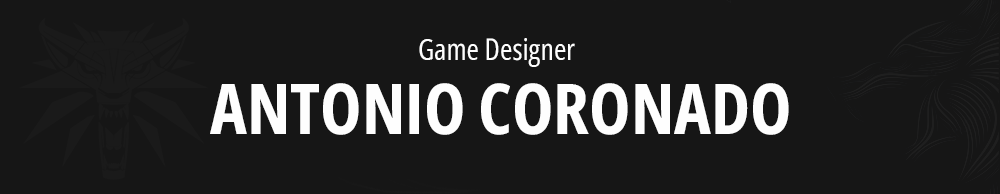
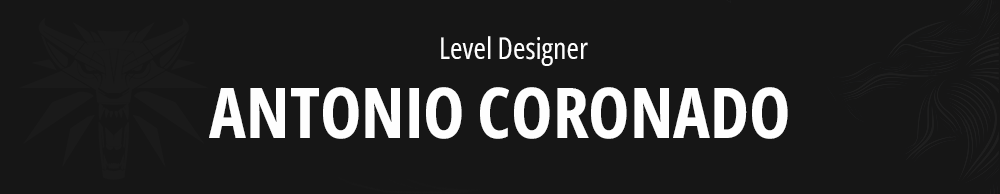
Changes

Changed region(s): [[0.186, 0.433, 0.806, 0.7113], [0.403, 0.1856, 0.589, 0.3402]]

diff --git a/PZ.html b/PZ.html
@@ -1,0 +1,130 @@
+<html>
+	<head>
+		<title>Antonio Coronado | Level Designer</title>
+		<link href='http://fonts.googleapis.com/css?family=Open+Sans' rel='stylesheet' type='text/css'>
+		<link href='style.css' rel='stylesheet' type='text/css'>
+		<link rel='shortcut icon' href='ico.ico' type='image/x-icon' />
+	</head>
+	
+	<body>
+
+		<div class="content">
+			<center>
+				
+				<img src="main/Game Designer.png" alt="Antonio Coronado - Game Developer" id="header">
+
+				
+								
+				<br>
+				<!-- the links -->
+				<div class="main_links">
+					
+					<a href="index.html"><img src="3d_on.png" id="linkimage0"></a> 
+				
+					<a href="2d.html"><img src="2d.png" id="linkimage1"></a> 
+					
+					<a href="cv.html"><img src="resume.png" id="linkimage2"></a> 
+					
+					<a href="contact.html"><img src="contact1.png" id="linkimage3"></a> 
+				</div>
+
+				<!-- Snowboard -->
+				<div id="page_title"> Project Z <br></div>
+            </center>
+				<div class="bread_text">
+					
+					<p class="test">
+          
+		  <br> Project Z is a Sci-fi dungeon crawler game. My role here is technical game designer in a team of 15 people but led the level design side. <br>
+   <br>   &bull; Collaborated closely with the concept artist to design a 10-room dungeon that included puzzles, traps, and enemy encounters.
+   <br>   &bull; Utilized Unreal Engine to block out 9 rooms and refined them through multiple gameplay iterations.
+   <br>   &bull; Generated one-page documents for each room to share with the team, streamlining the production process.
+   <br>   &bull; Developed AI spawners to test the flow and difficulty of each room, ensuring optimal gameplay experience.
+   <br>   &bull; Programmed a Diablo-style camera feature that dynamically hid objects in the level, resulting in improved gameplay for the game.
+   
+			
+   <br><br><br>
+
+   					Tools & resources used:
+					<br>&bull; Unreal Engine 5
+                    <br>&bull; Photoshop
+					<br>&bull; Google Documents
+					<br><br>
+					
+					<center>
+					<br>
+					<br>
+					<img  src="main/PZ/DungeonLayout.png" class="wide">
+					<div class="description"> Worked with the concept artist to create a layout of the dungeon with 9 rooms  </div>
+					<br>
+					<img  src="main/PZ/Room 1 Layout.png" class="wide">
+					<div class="description"> Room 1 layout - The room 1 starts with some easy enemies like turrets and minions  </div>
+					<br>
+					<img  src="main/PZ/Room 2 Layout.png" class="wide">
+					<div class="description"> Room 2 layout - has a puzzle with energy platforms that players need to interact with to be able to move to the next room  </div>
+					<br>
+					<img  src="main/PZ/Room 4 Layout.png" class="wide">
+					<div class="description"> Room 4 layout - Players must work together to find the right pattern, with every mistake more enemies are spawned  </div>
+					<br>
+					<img  src="main/PZ/Room 4 Mechanic.png" class="wide">
+					<div class="description"> Room 4 mechanic - Explaining the pressure pads mechanic  </div>
+					<br>
+					<img  src="main/PZ/Room 5 Layout.png" class="wide">
+					<div class="description"> Room 5 layout - The purpose of this is to separate players in 2 groups and fight the mininboss doing different actions ine ach group.  </div>
+					<br>
+					<img  src="main/PZ/Room 6 Layout (UNDER REVIEW).png" class="wide">
+					<div class="description"> Room 6 layout - Miniboss arena </div>
+					<br>
+					<img  src="main/PZ/Room 8 Layout.png" class="wide">
+					<div class="description"> Room 8 layout - Players must work together to bring energy to the door and open it  </div>
+					<br>
+					<img  src="main/PZ/Room 8 Mechanic.png" class="wide">
+					<div class="description"> Room 8 Mechanic layout - This room was intended to force players to coordinate and bring the little robots to the specified location   </div>
+					<br>
+					<img  src="main/PZ/Room 9 Layout.png" class="wide">
+					<div class="description"> Room 9 layout - Players need to find the correct pattern to teleport and continue their mission  </div>
+					<br>
+					<img  src="main/PZ/Boss Room.png" class="wide">
+					<div class="description"> Boss Room rought concept  </div>
+					<br>
+					<br>
+					<iframe width="1000" height="500" src="https://www.youtube.com/embed/q0iIHNHgSEk" frameborder="0" allow="accelerometer; autoplay; encrypted-media; gyroscope; picture-in-picture" allowfullscreen  class="wide"></iframe>
+            		<div class="description">  First blockouts with one of the characters </div>
+            		<br>
+					<br>
+					<iframe width="1000" height="500" src="https://www.youtube.com/embed/0LSt7SIoqik" frameborder="0" allow="accelerometer; autoplay; encrypted-media; gyroscope; picture-in-picture" allowfullscreen  class="wide"></iframe>
+            		<div class="description">  Walkthrough of all the rooms in unreal engine with the diablo style camera. </div>
+            		<br>
+					<br>
+					
+					
+
+
+					
+					<br>
+					<br>
+					 
+					
+
+				</div>
+
+
+				
+				
+
+				<br>
+
+				
+
+				
+
+				<br>
+
+				<br>
+
+
+				
+			</div>
+		</center>
+	</body>
+</html>

diff --git a/CGMA.html b/CGMA.html
@@ -1,0 +1,86 @@
+<html>
+	<head>
+		<title>Antonio Coronado | Level Designer</title>
+		<link href='http://fonts.googleapis.com/css?family=Open+Sans' rel='stylesheet' type='text/css'>
+		<link href='style.css' rel='stylesheet' type='text/css'>
+		<link rel='shortcut icon' href='ico.ico' type='image/x-icon' />
+	</head>
+	
+	<body>
+
+		<div class="content">
+			<center>
+				
+				<img src="Header.png" alt="Antonio Coronado - Level Designer" id="header">
+
+				
+								
+				<br>
+				<!-- the links -->
+				<div class="main_links">
+					
+					<a href="index.html"><img src="3d_on.png" id="linkimage0"></a> 
+				
+					<a href="2d.html"><img src="2d.png" id="linkimage1"></a> 
+					
+					<a href="cv.html"><img src="resume.png" id="linkimage2"></a> 
+					
+					<a href="contact.html"><img src="contact1.png" id="linkimage3"></a> 
+				</div>
+
+				<!-- Snowboard -->
+				<div id="page_title"> Personal Project <br></div>
+            </center>
+				<div class="bread_text">
+					
+					<p class="test">
+          This is a level I submitted in my CGMA level design course.
+   <br>
+   <br>   &bull; Built a blockout level for a single player experience
+   <br>   &bull; Created a color scheme to have consistensy with the objects that are interactable and for cover
+   <br>   &bull; Scripted a dialogues system and game events manager to handle different situations during gameplay.
+   <br>   &bull; Improved enemies AI to have movement patterns and keep the flow of the level.
+					
+					<br><br>
+					Tools & resources used:
+					<br>&bull; Unreal Engine 5
+					<br>&bull; Maya
+                    <br>&bull; IWALS player controller by Jakob W
+					
+					
+					<center>
+					
+					
+					<h1 style="font-weight: 10;">Walkthrough</h1>
+					<iframe width="1000" height="500" src="https://www.youtube.com/embed/umqDdpDM5B0" frameborder="0" allow="accelerometer; autoplay; encrypted-media; gyroscope; picture-in-picture" allowfullscreen  class="wide"></iframe>
+            		<div class="description"> Walkthrough of the level using the different paths available </div>
+            		<br>
+					<br>
+                    
+            		
+					
+                    
+                    <br>
+                    <img  src="main/TFOT/TFOT1.png" class="wide">
+					<div class="description"> the focal point is clear in the level letting know to the player where is the objective </div>
+                    <br>
+                    <br>
+                    <img  src="main/TFOT/TFOT2.png" class="wide">
+					<div class="description"> Used different colors to define the utility of each object (blue - cover | Orange - Objective | Green - interactable | Red - Enemies ) </div>
+                    <br>
+                    <br>
+                    <img  src="main/TFOT/TFOT3.png" class="wide">
+					<div class="description"> the player has the choice to start a shooting or use stealth to pass the soldiers </div>
+                    <br>
+                    <br>
+                    <img  src="main/TFOT/TFOT4.png" class="wide">
+					<div class="description"> Multiple paths exist to reach the objective of the mission </div>
+                    <br>
+                    <br>
+                    <img  src="main/TFOT/TFOT5.png" class="wide">
+					<div class="description"> Key places to rest and lower the tension, also brings some advantages to the player  </div>
+                    <br>
+                    <br>
+                    <img  src="main/TFOT/TFOT6.png" class="wide">
+					<div class="description"> Final location and objective of the level's mission </div>
+                    <br>

diff --git a/ADC.html b/ADC.html
@@ -71,55 +71,16 @@
 					<img  src="adc/ADC06.png" class="wide">
 					<div class="description">  </div>
 
-					<img  src="adc/ADC07.png" class="wide">
-					<div class="description">  </div>
-
+				
 					<h1 style="font-weight: 10;">Complete Gameplay</h1>
 					<iframe width="1000" height="500" src="https://www.youtube.com/embed/l7mE6yKCD2Q" frameborder="0" allow="accelerometer; autoplay; encrypted-media; gyroscope; picture-in-picture" allowfullscreen  class="wide"></iframe>
             		<div class="description"> 10 minutes of the MVP prototype game (Before environment design) </div>
             		<br>
 					<br>
-                    <h1 style="font-weight: 10;">Systems</h1>
-                    <iframe width="1000" height="500" src="https://www.youtube.com/embed/xBheUfRY1Do" frameborder="0" allow="accelerometer; autoplay; encrypted-media; gyroscope; picture-in-picture" allowfullscreen  class="wide"></iframe>
-            		<div class="description"> Mounting Mechanic using Unka's dragons </div>
-
+                   
 					<br>
 					<br>
-                    <iframe width="1000" height="500" src="https://www.youtube.com/embed/U3dzryQtkP0" frameborder="0" allow="accelerometer; autoplay; encrypted-media; gyroscope; picture-in-picture" allowfullscreen  class="wide"></iframe>
-            		<div class="description"> Early version of Basic Quest system </div>
-
-					<br>
-					<br>
-                    <iframe width="1000" height="500" src="https://www.youtube.com/embed/FGxilm-K4og" frameborder="0" allow="accelerometer; autoplay; encrypted-media; gyroscope; picture-in-picture" allowfullscreen  class="wide"></iframe>
-            		<div class="description"> Dragon's System (Enemy or friendly AI) </div>
-
-					<br>
-					<br>
-                    <iframe width="1000" height="500" src="https://www.youtube.com/embed/cy_aWrbPUs0" frameborder="0" allow="accelerometer; autoplay; encrypted-media; gyroscope; picture-in-picture" allowfullscreen  class="wide"></iframe>
-            		<div class="description"> Hatching and companion System </div>
-
-                    
-
-                    
-
-					<br>
-					<br>
-
-
-
-					<br>
-					<br>
-					<!-- sticks traps -->
-					<h1 style="font-weight: 10;">Blueprint Utility Tool</h1>
-					<img  src="main/randomizer.png" class="wide">
-					<div class="description"> Preview of the tool </div>
-
-					<iframe width="1000" height="500" src="https://www.youtube.com/embed/0t7iriE4rmE" frameborder="0" allow="accelerometer; autoplay; encrypted-media; gyroscope; picture-in-picture" allowfullscreen  class="wide"></iframe>
-            		<div class="description"> Showcase of the tool</div>
-
-					<iframe width="1000" height="500" src="https://blueprintue.com/render/aoz05kdn/" scrolling="no" allowfullscreen></iframe>
-					<div class="description"> Blueprint Utility Nodes </div>
-
+					
 
 
 

diff --git a/index.html b/index.html
@@ -4,13 +4,12 @@
 		<link href='http://fonts.googleapis.com/css?family=Open+Sans' rel='stylesheet' type='text/css'>
 		<link href='style.css' rel='stylesheet' type='text/css'>
 		<link rel='shortcut icon' href='ico.ico' type='image/x-icon' />
-		
-
 	</head>
 	
 	<body>
 
 		<div class="content">
+
 			<center>
 				
 				<img src="Header.png" alt="Antonio Coronado - Level Designer" id="header">
@@ -29,6 +28,21 @@
 					
 					<a href="contact.html"><img src="contact1.png" id="linkimage3"></a> 
 				</div>
+			
+
+				<a href="CGMA.html">
+					<img src="main/TFOT/Cover.png"class="show">
+					<br>
+					<div class="titleText"> The First Of Them </div>
+					<div class="description"> The last of us fan made level <u>more info</u></div>
+				</a>
+
+				<a href="PZ.html">
+					<img src="main/PZ.png"class="show">
+					<br>
+					<div class="titleText"> Project Z </div>
+					<div class="description"> Sci-fi Dungeon Crawler game <u>more info</u></div>
+				</a>
 
 				<a href="Medap.html">
 					<img src="main/MA.jpg"class="show">
@@ -50,15 +64,6 @@
 					<div class="titleText"> Tropical Island </div>
 					<div class="description"> An Island made with UE4 and quixel megascans <u>more info</u></div>
 				</a>
-
-				
-				
-				<!-- showcase -->
-				
-				
-				<br>
-				
-				
 				
 				<br>
 
@@ -66,7 +71,7 @@
 					<iframe width="1000" height="500" src="https://www.youtube.com/embed/c29Dz2CdO18" frameborder="0" allow="accelerometer; autoplay; encrypted-media; gyroscope; picture-in-picture" allowfullscreen  class="wide"></iframe>
 					<br>
 					<div class="titleText"> Terror Room </div>
-					<div class="description"> A small terror room I made as personal project <u>more info </u></div>
+					<div class="description"> A small terror room I made as personal project </div>
 				</a>
 
 				<br>

diff --git a/Medap.html b/Medap.html
@@ -121,8 +121,6 @@
 					<img  src="medap/Struct01.png" class="wide">
 					<div class="description"> Abandoned castle </div>
 
-					<img  src="medap/Struct02.png" class="wide">
-					<div class="description"> Abandoned village </div>
 
 					<img  src="medap/Struct03.png" class="wide">
 					<div class="description"> Camps in the abandoned village (procedural based on splines) </div>
@@ -135,15 +133,8 @@
 
 					<img  src="medap/Snow03.png" class="wide">
 					<div class="description"> landscape footage </div>
-
-
-                    
-
+					
 					<br>
-					<br>
-
-				
-					<!-- sticks traps -->
 					<h1 style="font-weight: 10;">Blueprint Utility Tool</h1>
 					<img  src="main/randomizer.png" class="wide">
 					<div class="description"> Preview of the tool </div>
@@ -153,12 +144,14 @@
 
 					<iframe width="1000" height="500" src="https://blueprintue.com/render/aoz05kdn/" scrolling="no" allowfullscreen></iframe>
 					<div class="description"> Blueprint Utility Nodes </div>
-					
-					<br><br>
-					<h1 style="font-weight: 10;">Gameplay</h1>
-                    <iframe width="1000" height="500" src="https://www.youtube.com/embed/fA5L0omMJUs" frameborder="0" allow="accelerometer; autoplay; encrypted-media; gyroscope; picture-in-picture" allowfullscreen  class="wide"></iframe>
-            		<div class="description"> Showcase of the game prototype </div>
 
+                    
+
+					<br>
+					<br>
+
+				
+	
 
 
 					
